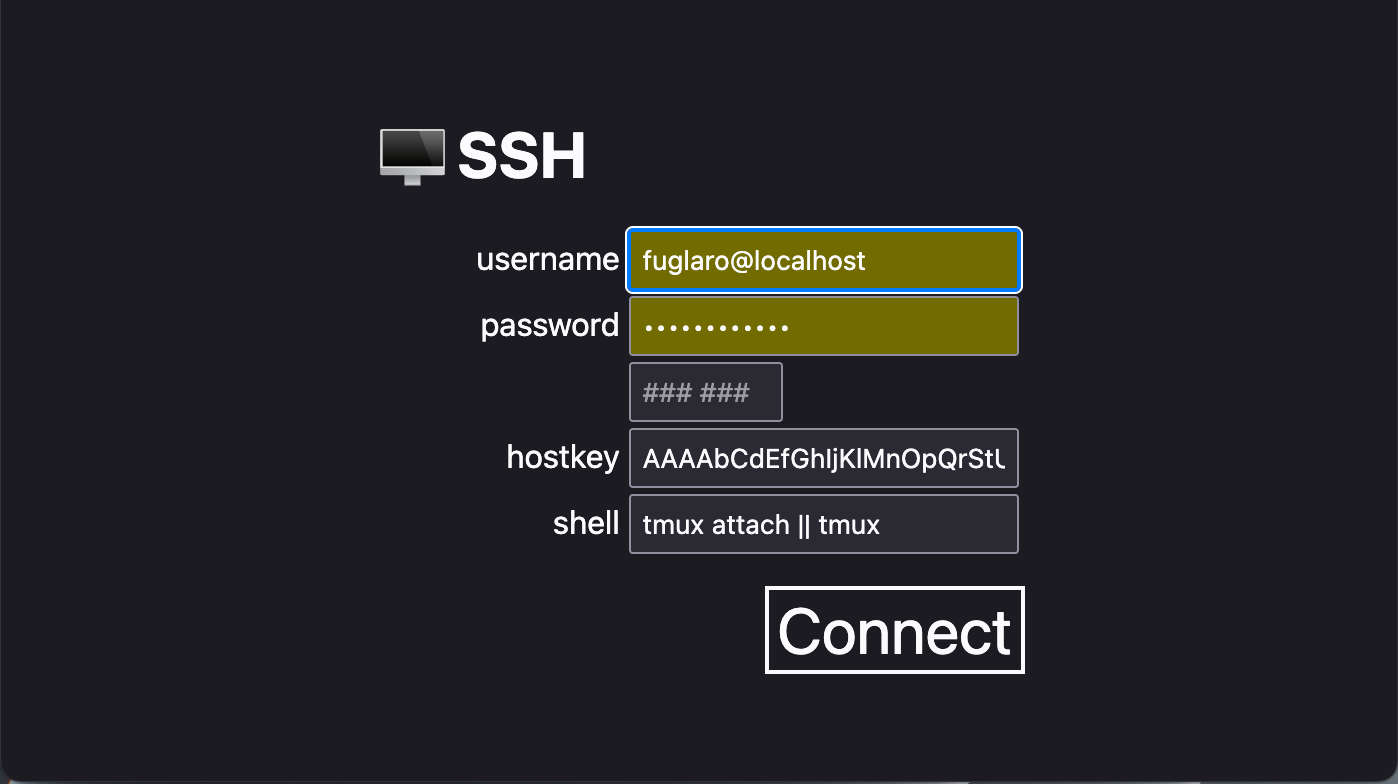
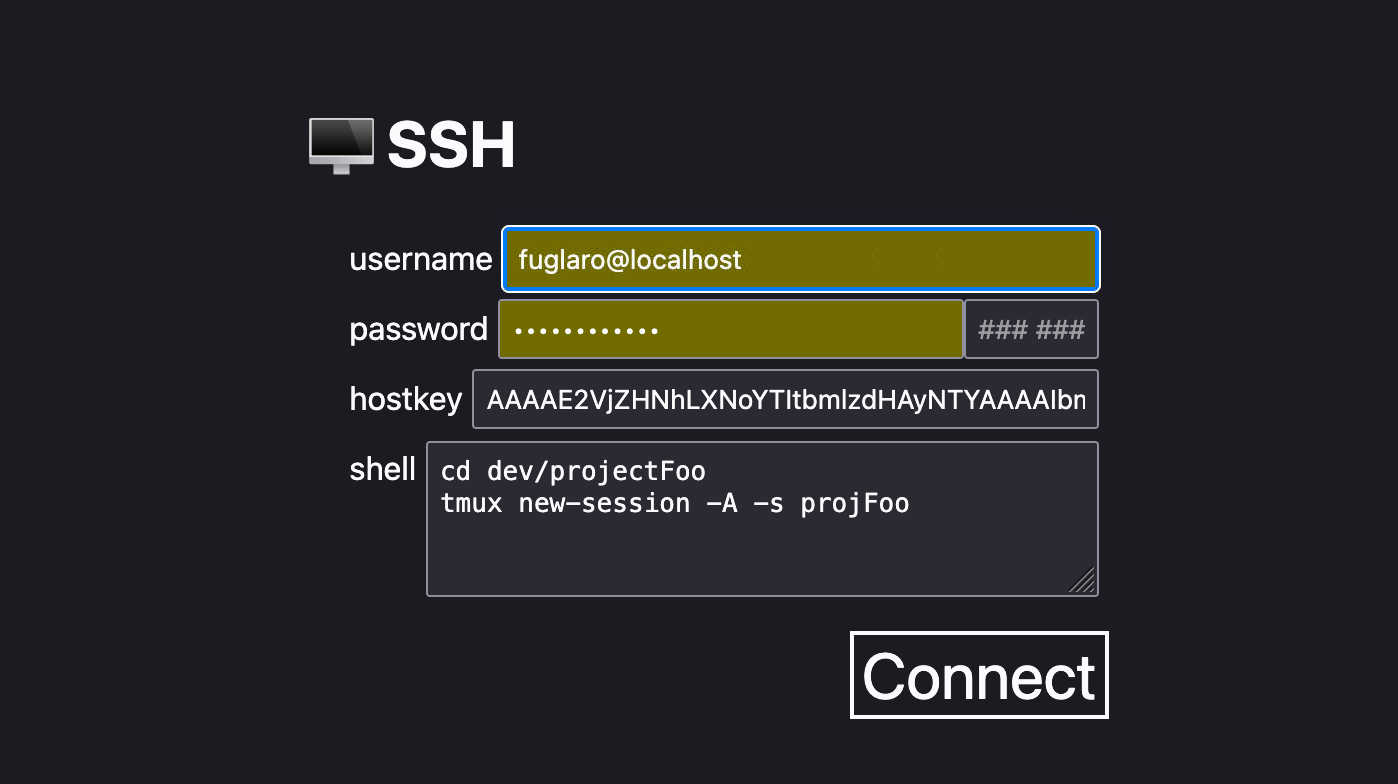
Improves login form design with bigger fields and better spacing.

diff --git a/resources/main.html b/resources/main.html
@@ -74,35 +74,51 @@
 				font-family: system-ui;
 			}
 
-			ul {
-				list-style: none;
-			}
+			form {
+				width: min(400px, 90%);
 
-			h1,
-			li {
-				margin: 3px;
-			}
+				ul {
+					list-style: none;
+					padding-inline-start: 10px;
 
-			label {
-				display: inline-block;
-				width: 80px;
-				text-align: right;
-			}
+					li {
+						display: flex;
+						flex-wrap: wrap;
+						margin: 5px;
 
-			input {
-				padding: 5px;
-			}
+						label {
+							padding: 5px;
+						}
 
-			button {
-				float: right;
-				font-size: 2em;
-				border-style: solid;
-				border-color: currentColor;
-				background-color: background;
-			}
+						input,
+						textarea {
+							flex-grow: 1;
+							padding: 5px;
+						}
 
-			button.loading {
-				filter: blur(3px);
+						#code {
+							flex-grow: 0;
+							width: 4em;
+						}
+
+						#shell {
+							text-wrap: wrap;
+							max-height: 8lh;
+						}
+					}
+				}
+
+				button {
+					float: right;
+					font-size: 2em;
+					border-style: solid;
+					border-color: currentColor;
+					background-color: background;
+				}
+
+				button.loading {
+					filter: blur(3px);
+				}
 			}
 		</style>
 		<div tabindex="-1">
@@ -116,11 +132,9 @@
 					<li>
 						<label for=password>password</label>
 						<input type=password id=password name=password autocomplete=current-password required>
-					</li>
-					<li>
-						<label for=code></label>
-						<input type=text id=code name=code title="2FA access code (optional on some servers)" size=6
-							autocomplete="off" placeholder="### ###">
+						<label for=code style="display: none;"></label>
+						<input type=text id=code name=code title="2FA access code (optional on some servers)" autocomplete="off"
+							placeholder="### ###">
 					</li>
 					<li>
 						<label for=hostkey>hostkey</label>
@@ -128,7 +142,7 @@
 					</li>
 					<li>
 						<label for=shell>shell</label>
-						<input type=text id=shell name=shell placeholder=default>
+						<textarea id=shell rows=4 name=shell placeholder=default></textarea>
 					</li>
 				</ul>
 				<button>Connect</button>
@@ -173,7 +187,7 @@
 					// Update the form with URL parameter info on load.
 					for (const [key, value] of new URL(url).searchParams.entries()) {
 						const el = this.shadowRoot.querySelector("#" + key)
-						if (el && el.nodeName == "INPUT") el.value = value
+						if (el && (el.nodeName == "INPUT" || el.nodeName == "TEXTAREA")) el.value = value
 					}
 				}
 				window.onpopstate = (e) => loadURL(e.state)
@@ -184,7 +198,7 @@
 					// Saving updated form (safe) connection parameters to url.
 					const saveURL = () => {
 						var url = new URL(window.location)
-						this.shadowRoot.querySelectorAll("input").forEach(i => {
+						this.shadowRoot.querySelectorAll("input, textarea").forEach(i => {
 							if (i.id == "CSRFToken") return
 							if (i.id == "password") return
 							if (i.id == "code") return
